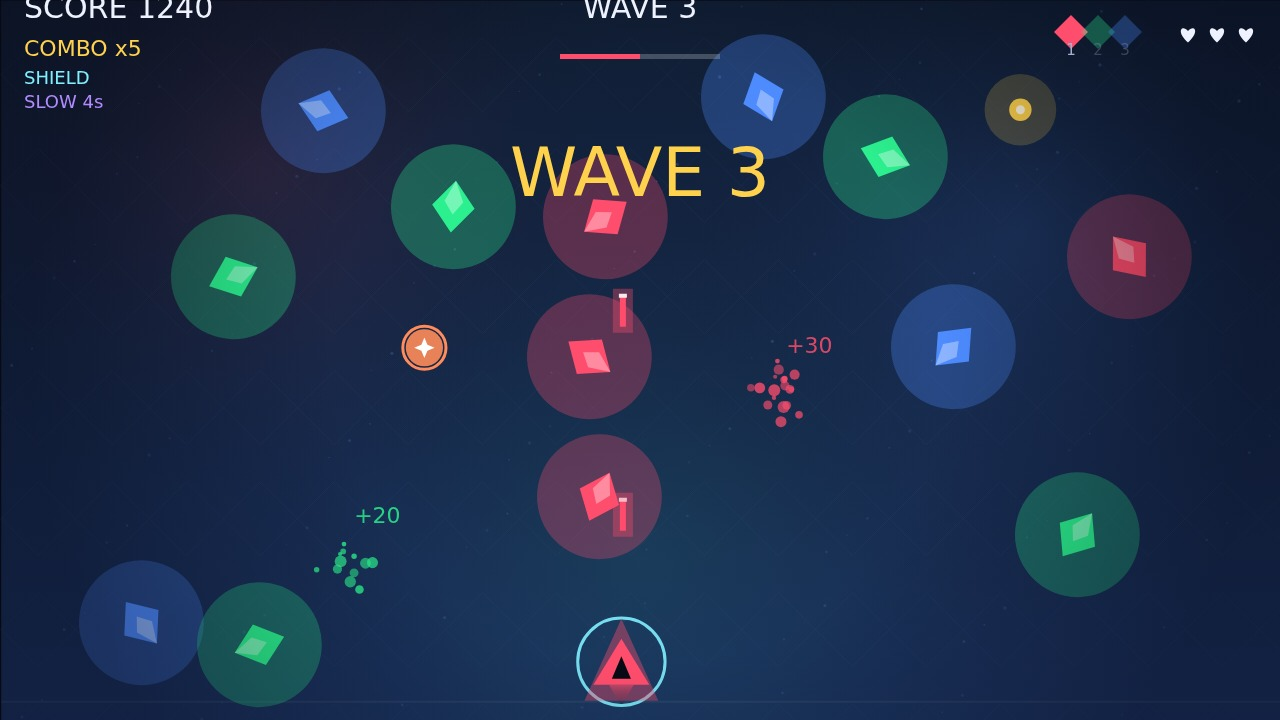
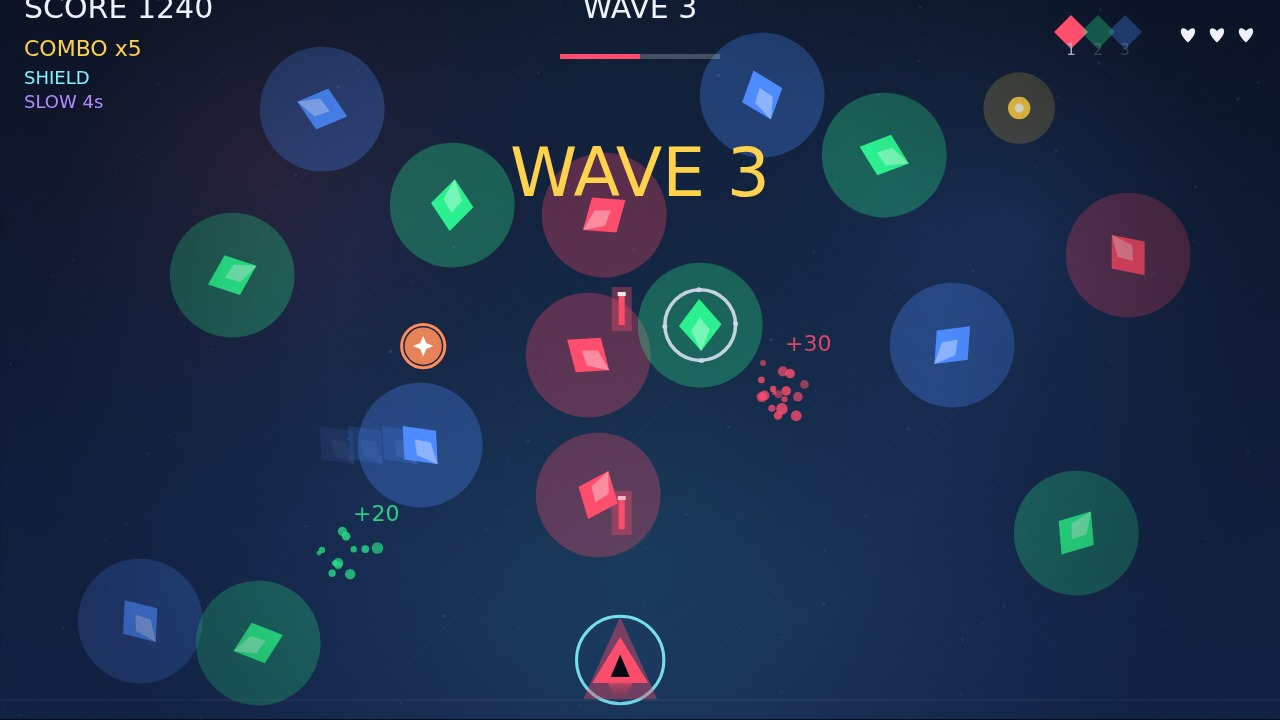
Play scene: armoured + drifter shards in frame

diff --git a/game/src/shots.js b/game/src/shots.js
@@ -164,7 +164,10 @@ export function stageShot(name, world) {
   // Two low shards on the left: near-misses read as tension, and they fill the empty corner.
   placeShard(state, 140, 596, 2, 150, 2.5);
   placeShard(state, 258, 618, 1, 143, 4.4);
-  // A scatter across the field: every colour, several heights, all mid-fall.
+  // A scatter across the field: every colour, several heights, all mid-fall — plus one of each
+  // new shard kind, so the variety reads in this frame too.
+  placeShard(state, 700, 300, 1, 160, 3.1, { armor: true });
+  placeShard(state, 420, 420, 2, 155, 2.4, { drift: true });
   placeShard(state, 232, 250, 1, 171, 1.2);
   placeShard(state, 322, 84, 2, 163, 5.0);
   placeShard(state, 452, 180, 1, 145, 0.1);
